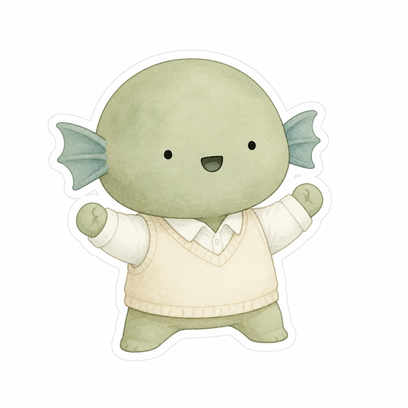
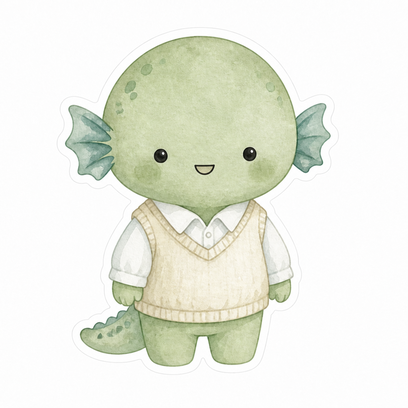
fix(examples): lock Bip face nine and regen moods from base
Keep bip.png as the canonical dot-eye base; regenerate happy and
excited from that reference so outfit and face stay consistent.

Changed region(s): [[0.1176, 0.0882, 0.8235, 0.9118], [0.3235, 0.3529, 0.4412, 0.4412], [0.4706, 0.3824, 0.5588, 0.4412]]

diff --git a/examples/stickers/README.md b/examples/stickers/README.md
@@ -2,7 +2,7 @@
 
 Asset-only iMessage sticker pack (no `withTargetsMetro`). Host shows pack status for Maestro smoke.
 
-Pack character: **Bip**. Grid size is **regular** (plugin default): provide sticker PNGs at **408×408 @3x**.
+Pack character: **Bip** (sage body, cream vest, minimal **dot-eye** face — locked in `stickers/bip.png`; mood stickers regen from that base). Grid size is **regular** (plugin default): provide sticker PNGs at **408×408 @3x**.
 
 ## OS path
 
